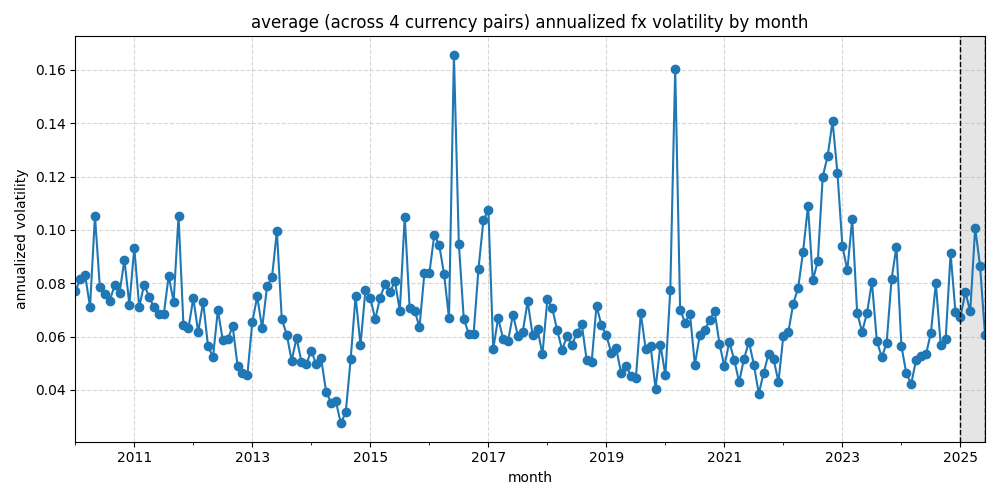
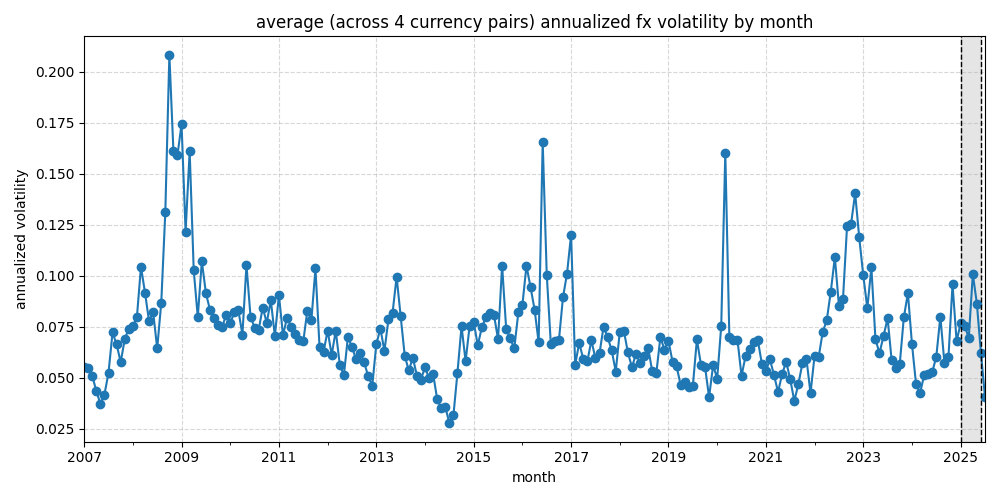
connect via fredapi

diff --git a/plots/fxvolatility.py b/plots/fxvolatility.py
@@ -2,16 +2,23 @@ import pandas as pd
 import matplotlib.pyplot as plt
 import numpy as np
 
-euro_spot = pd.read_csv('/Users/aryaman/macro-research/data/eur-spot-daily.csv', index_col=0, parse_dates=True)
-gbp_spot = pd.read_csv('/Users/aryaman/macro-research/data/gbp-spot-daily.csv', index_col=0, parse_dates=True)
-yen_spot = pd.read_csv('/Users/aryaman/macro-research/data/yen-spot-daily.csv', index_col=0, parse_dates=True)
-yuan_spot = pd.read_csv('/Users/aryaman/macro-research/data/yuan-spot-daily.csv', index_col=0, parse_dates=True)
+from fredconnect import fred
 
-spots = pd.DataFrame()
-spots['EUR/USD'] = euro_spot['DEXUSEU']
-spots['GBP/USD'] = gbp_spot['DEXUSUK']
-spots['USD/YEN'] = yen_spot['DEXJPUS']
-spots['USD/YUAN'] = yuan_spot['DEXCHUS']
+# connect via FRED API
+series = ['DEXUSEU', 'DEXUSUK', 'DEXJPUS', 'DEXCHUS']
+spot_data = {sid: fred.get_series(sid) for sid in series}
+spots = pd.DataFrame(spot_data)
+
+spots = spots.rename(columns={
+    'DEXUSEU': 'EUR/USD',
+    'DEXUSUK': 'GBP/USD',
+    'DEXJPUS': 'USD/YEN',
+    'DEXCHUS': 'USD/YUAN'
+})
+
+spots.index = pd.to_datetime(spots.index)
+spots.dropna(inplace=True)
+spots = spots.truncate(before='2007-01-01')
 
 # log returns 
 spots = np.log(spots).diff().dropna()

diff --git a/plots/realrates.py b/plots/realrates.py
@@ -84,13 +84,13 @@ plt.figure(figsize=(10,5))
 fred_real_rate = pd.read_csv('/Users/aryaman/macro-research/data/fred_real_rate.csv', index_col=0, parse_dates=True)
 realrates['fred_10yr_real_rate'] = fred_real_rate['REAINTRATREARAT10Y']
 
-realrates['fred_10yr_real_rate'].plot(label='FRED Model 10yr real rate', color='black')
+realrates['fred_10yr_real_rate'].plot(label='FRED model 10yr real rate', color='black')
 
 realrates['10yr_real_pce'].plot(label='10yr real rate with PCE', color='red')
 realrates['10yr_real_corecpi'].plot(label='10yr real rate with core CPI', color='blue')
 realrates['10yr_real_cpi'].plot(label='10yr real rate with CPI', color='green')
 
-plt.title('10yr real rates')
+plt.title('10yr real rates - comparison with FRED model')
 plt.xlabel('date')
 plt.ylabel('real rate (%)')
 plt.legend()
